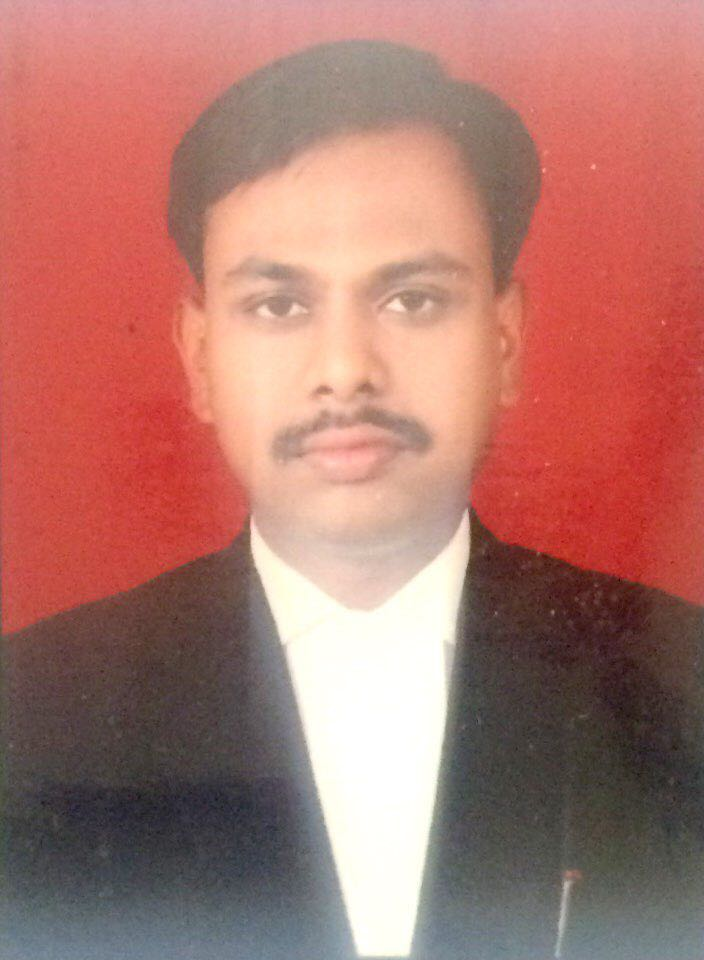
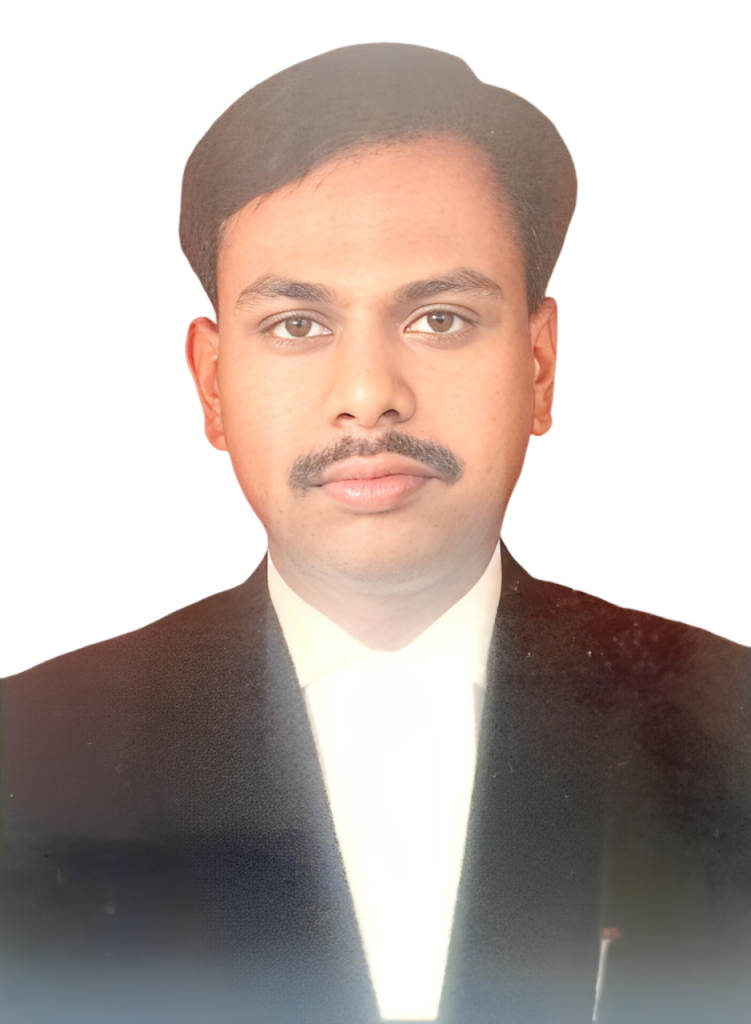
first commit

diff --git a/src/components/Footer/Footer.jsx b/src/components/Footer/Footer.jsx
@@ -3,6 +3,7 @@ import { Link } from "react-router-dom";
 
 import facebookIcon from "../../assets/Facebook_icon.png";
 import youtubeIcon from "../../assets/Youtube_icon.png";
+import Notary3 from "../../assets/low/Notary3.png";
 import { FaWhatsapp } from "react-icons/fa";
 import { AiOutlineMail } from "react-icons/ai";
 import { FaMapMarkerAlt } from "react-icons/fa";
@@ -60,6 +61,19 @@ const Footer = () => {
             >
               <AiOutlineMail className="text-xl sm:text-2xl" />
             </a>
+            <br />
+            <br />
+            <br />
+          </div>
+          <div className="flex flex-col items-center sm:items-start text-center sm:text-center">
+            <img
+              src={Notary3}
+              alt="Adv. Satish Muchalamkar"
+              className="w-32 h-32 rounded-full object-cover mb-2 shadow-md ml-11" // <-- added ml-4
+            />
+            <p className="text-lg font-bold text-black items-center text-center">
+              Adv. Satish Muchalamkar
+            </p>
           </div>
         </div>
 
@@ -91,8 +105,8 @@ const Footer = () => {
           <div className="col-span-1 sm:col-span-1 mb-6 md:mb-0">
             <h3 className="font-bold mb-3 text-lg sm:text-xl">Contact</h3>
             <p className={`text-sm sm:text-base break-words ${hoverGradient}`}>
-              Main Office: S. NO. 118, A-2, GROUND FLOOR, CIPLA ROAD, OPP - CIPLA
-              BUS STOP, NEAR – MAULI MEDICAL, WARJE, PUNE-411058
+              Main Office: S. NO. 118, A-2, GROUND FLOOR, CIPLA ROAD, OPP -
+              CIPLA BUS STOP, NEAR – MAULI MEDICAL, WARJE, PUNE-411058
             </p>
             <p className="text-sm sm:text-base mt-2">Mobile no: 9168111181</p>
             <p className="text-sm sm:text-base">Email: advssmd1975@gmail.com</p>

diff --git a/src/components/HeroSection/HeroSection.jsx b/src/components/HeroSection/HeroSection.jsx
@@ -4,22 +4,30 @@ import heroBg from "../../assets/low/hero.png";
 const HeroSection = () => {
   return (
     <>
-      {/* Hero section */}
       <div
         id="hero"
-        className="relative w-full h-[800px] bg-center bg-no-repeat bg-cover flex items-center justify-center px-2 sm:px-4 lg:px-8"
+        className="relative w-full h-[800px] bg-center bg-no-repeat bg-cover flex items-center justify-center px-4 lg:px-8"
         style={{
           backgroundImage: `url(${heroBg})`,
-          backgroundSize: "cover", // For desktop and larger screens
+          backgroundSize: "cover",
         }}
       >
-        {/* Optional heading or overlay text */}
-        <h1 className="text-white text-3xl sm:text-4xl md:text-5xl font-bold">
-          Hero
-        </h1>
-      </div>
+        {/* Overlay */}
+        <div className="absolute inset-0 bg-black bg-opacity-50"></div>
 
-      
+        {/* Text Content */}
+        <div className="relative z-10 max-w-5xl text-center px-4">
+          <h1 className="text-white text-2xl sm:text-3xl md:text-4xl lg:text-5xl font-bold leading-relaxed">
+            “Justice must not only be done, but must be seen to be done”
+          </h1>
+          <p className="text-white mt-6 text-base sm:text-lg md:text-xl font-medium leading-relaxed">
+            This principle emphasizes the importance of transparency and public confidence
+            in the legal system. It ensures that not only is the outcome of a case fair,
+            but also that the process is perceived as fair and impartial—building trust
+            and legitimacy in the judicial process.
+          </p>
+        </div>
+      </div>
     </>
   );
 };

diff --git a/src/App.jsx b/src/App.jsx
@@ -1,11 +1,15 @@
 import { useEffect } from "react";
-import { HashRouter as Router, Route, Routes, useLocation } from "react-router-dom";
+import {
+  HashRouter as Router,
+  Route,
+  Routes,
+  useLocation,
+} from "react-router-dom";
 import "./App.css";
 
-import HeroSection from "./components/HeroSection/HeroSection";
 import Navbar from "./components/Navbar/Navbar";
 import Footer from "./components/Footer/Footer";
-
+import Home from "./components/Home/Home";
 import Practices from "./components/Practices/Practices";
 import Contact from "./components/Contact/Contact";
 import Expertise from "./components/Expertise/Expertise";
@@ -41,9 +45,9 @@ const ScrollRestorationWrapper = () => {
       <Routes>
         <Route path="/" element={<Home />} />
         <Route path="/aboutus" element={<AboutUs />} />
-        <Route path="/Practices" element={<Practices />} />
-        <Route path="/Expertise" element={<Expertise />} />
-        <Route path="/Social" element={<Social />} />
+        <Route path="/practices" element={<Practices />} />
+        <Route path="/expertise" element={<Expertise />} />
+        <Route path="/social" element={<Social />} />
         <Route path="/contact" element={<Contact />} />
         <Route path="/social/rrb" element={<RRB />} />
         <Route path="/social/blogs" element={<BLOGS />} />
@@ -52,11 +56,5 @@ const ScrollRestorationWrapper = () => {
     </>
   );
 };
-
-const Home = () => (
-  <div>
-    <HeroSection />
-  </div>
-);
 
 export default App;

diff --git a/src/components/Contact/Contact.jsx b/src/components/Contact/Contact.jsx
@@ -2,6 +2,7 @@ import React from "react";
 import { FaWhatsapp } from "react-icons/fa6";
 import { IoMail } from "react-icons/io5";
 import Email from "./Email";
+import Notary1 from "../../assets/low/notary1.png";
 
 const Contact = () => {
   return (
@@ -36,6 +37,18 @@ const Contact = () => {
             <ul className="space-y-4 text-sm sm:text-base md:text-lg">
               <li>
                 Drop by the office:
+                <br />
+                <br />
+                <div className="flex flex-col items-center text-center">
+                  <img
+                    src={Notary1}
+                    alt="Adv. Satish Muchalamkar"
+                    className="w-32 h-32 rounded-full object-cover mb-4 shadow-md"
+                  />
+                  <p className="text-lg font-bold">
+                    Adv. Satish Muchalamkar
+                  </p>
+                </div>
                 <br />
                 <span className="text-gray-700">
                   S. NO. 118, A-2, GROUND FLOOR, CIPLA ROAD,

diff --git a/src/components/Navbar/Navbar.jsx b/src/components/Navbar/Navbar.jsx
@@ -27,8 +27,8 @@ const Navbar = () => {
   const navLinks = [
     { to: "/", label: "Home" },
     { to: "/aboutus", label: "About Us" },
-    { to: "/Practices", label: "Practices" },
-    { to: "/Expertise", label: "Expertise" },
+    { to: "/practices", label: "Practices" },
+    { to: "/expertise", label: "Expertise" },
   ];
 
   return (

diff --git a/src/components/Expertise/Expertise.jsx b/src/components/Expertise/Expertise.jsx
@@ -24,6 +24,7 @@ const services = [
   { name: "Adv. B. G. Rathod", img: Adv_B_G_Rathod },
   { name: "Adv. Nagesh Birajdar", img: Adv_Nagesh_Birajdar },
   { name: "Adv. Shivaji Singh", img: Adv_Shivaji_Singh },
+  { name: "Adv. Kailas Borde", img: "" },
 ];
 
 const Expertise = () => {

diff --git a/src/components/Home/Home.jsx b/src/components/Home/Home.jsx
@@ -1,0 +1,12 @@
+import React from 'react'
+import HeroSection from "../HeroSection/HeroSection";
+
+const Home = () => {
+  return (
+    <div>
+      <HeroSection />
+    </div>
+  )
+}
+
+export default Home

diff --git a/src/components/Social/Social.jsx b/src/components/Social/Social.jsx
@@ -3,7 +3,7 @@ import React from 'react'
 const Social = () => {
   return (
     <div>
-     social 
+     
     </div>
   )
 }
